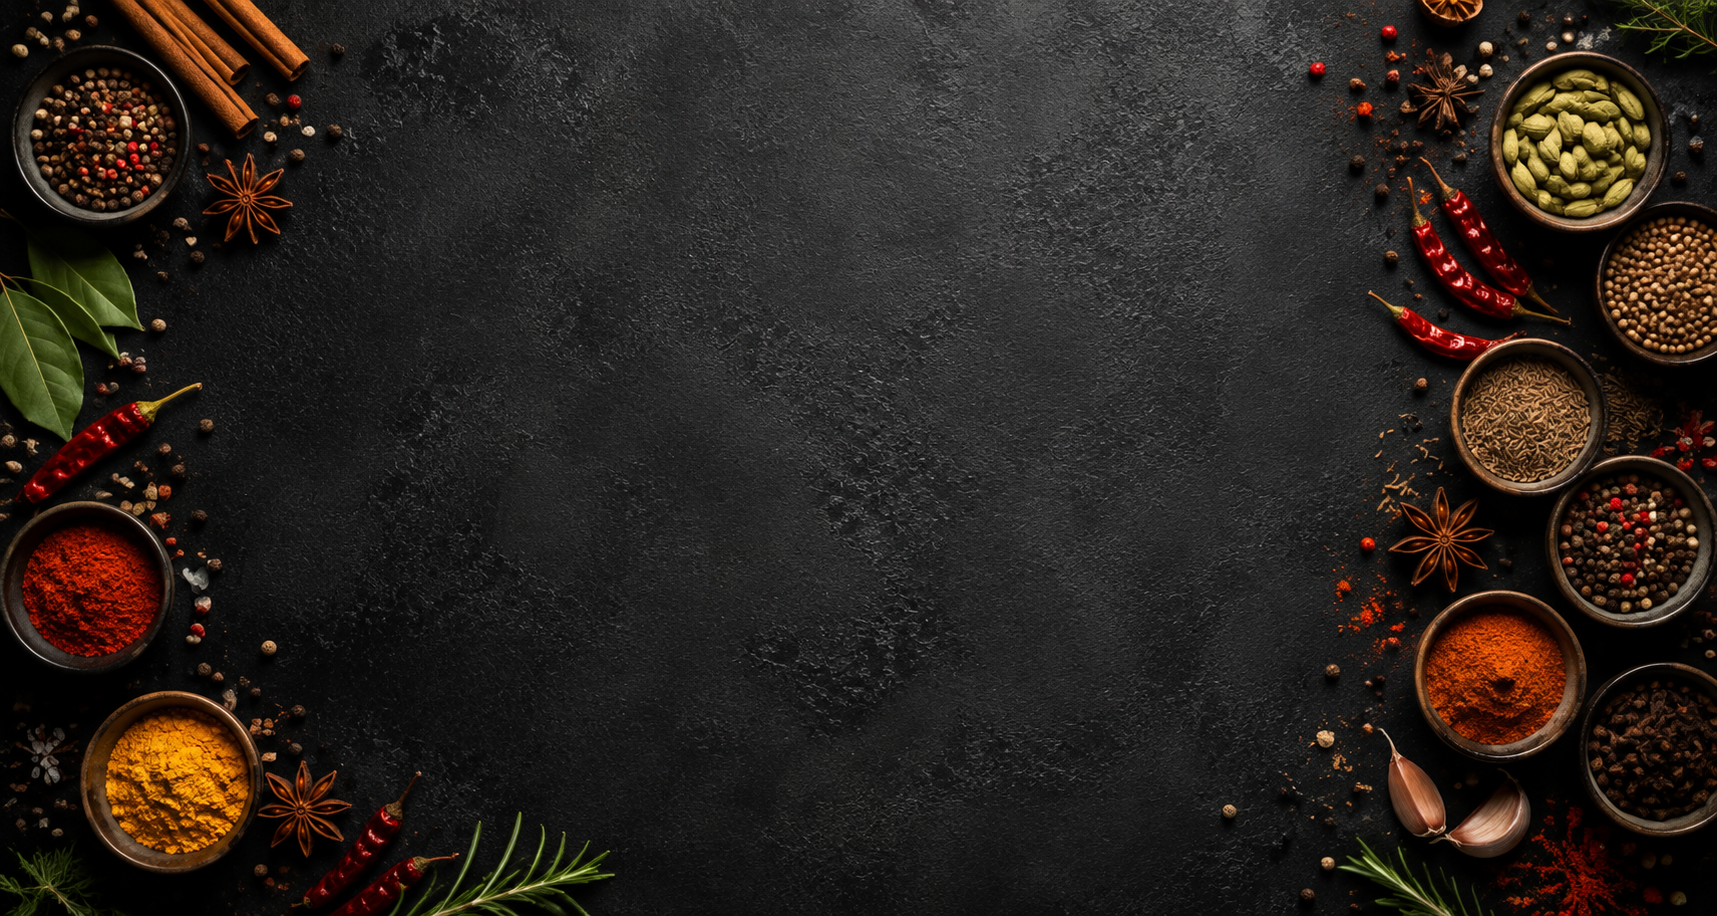
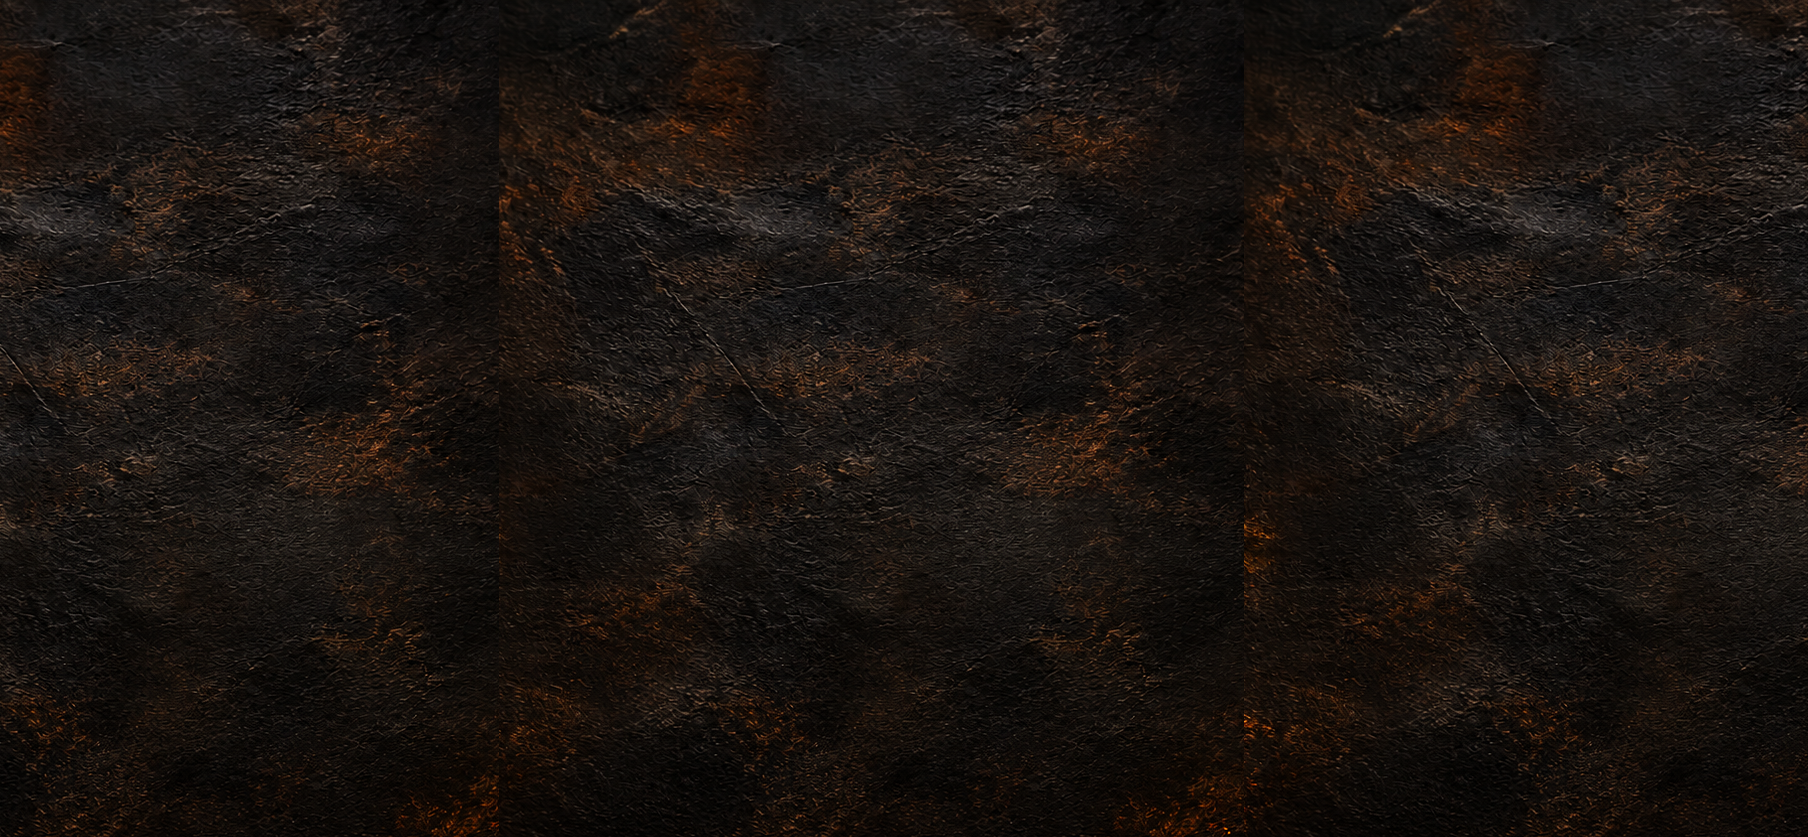
changed background image and added monthly expense

diff --git a/renderer/public/js/monthly-expenses.js b/renderer/public/js/monthly-expenses.js
@@ -1,0 +1,173 @@
+const monthlyExpenseCrudState = {
+  items: [],
+  editingId: null
+};
+
+function setMonthlyExpenseFormMode(isEdit) {
+  const submitButton = document.getElementById('monthlyExpenseSubmitButton');
+  const cancelButton = document.getElementById('cancelMonthlyExpenseEditButton');
+  if (submitButton) submitButton.textContent = isEdit ? 'Update Expense' : 'Save Expense';
+  if (cancelButton) cancelButton.hidden = !isEdit;
+}
+
+function resetMonthlyExpenseForm() {
+  const form = document.getElementById('monthlyExpenseForm');
+  if (form) form.reset();
+  monthlyExpenseCrudState.editingId = null;
+  setMonthlyExpenseFormMode(false);
+  showSaveMessage('monthlyExpenseSaveMessage', '');
+}
+
+function toMonthInputValue(value) {
+  if (!value) return '';
+  const date = new Date(value);
+  if (Number.isNaN(date.getTime())) return '';
+  return new Date(date.getTime() - date.getTimezoneOffset() * 60000).toISOString().slice(0, 7);
+}
+
+function formatExpenseMonth(value) {
+  if (!value) return '-';
+  const date = new Date(value);
+  if (Number.isNaN(date.getTime())) return '-';
+  return date.toLocaleDateString('en-IN', { month: 'long', year: 'numeric' });
+}
+
+function renderMonthlyExpenseTable(items) {
+  const body = document.getElementById('monthlyExpensesTableBody');
+  if (!body) return;
+
+  if (!items.length) {
+    body.innerHTML = '<tr><td colspan="5" class="empty-state">No monthly expenses recorded yet.</td></tr>';
+    return;
+  }
+
+  const role = getServerContext().role || 'Guest';
+  body.innerHTML = items.map(item => `
+    <tr>
+      <td>${formatExpenseMonth(item.expenseMonth)}</td>
+      <td>${item.category || '-'}</td>
+      <td>${item.expenseDetails || '-'}</td>
+      <td>${formatCurrency(item.amount)}</td>
+      ${(role === 'Admin' || role === 'Super Admin') ? `
+      <td>
+        <div class="menu-actions">
+          <button type="button" class="menu-action-btn edit" data-monthly-expense-action="edit" data-monthly-expense-id="${item.id}">Edit</button>
+          <button type="button" class="menu-action-btn delete" data-monthly-expense-action="delete" data-monthly-expense-id="${item.id}">Delete</button>
+        </div>
+      </td>
+      ` : ''}
+    </tr>
+  `).join('');
+}
+
+async function loadMonthlyExpenses() {
+  const response = await fetch(`/api/monthly-expenses/${headerRestaurantId}`);
+  const data = await response.json();
+  monthlyExpenseCrudState.items = Array.isArray(data) ? data : [];
+  renderMonthlyExpenseTable(monthlyExpenseCrudState.items);
+}
+
+function openMonthlyExpenseForEdit(id) {
+  const item = monthlyExpenseCrudState.items.find(expense => Number(expense.id) === Number(id));
+  if (!item) return;
+
+  monthlyExpenseCrudState.editingId = item.id;
+  setMonthlyExpenseFormMode(true);
+
+  const category = document.getElementById('monthlyExpenseCategory');
+  const month = document.getElementById('monthlyExpenseMonth');
+  const amount = document.getElementById('monthlyExpenseAmount');
+  const details = document.getElementById('monthlyExpenseDetails');
+
+  if (category) category.value = item.category || '';
+  if (month) month.value = toMonthInputValue(item.expenseMonth);
+  if (amount) amount.value = item.amount ?? '';
+  if (details) details.value = item.expenseDetails || '';
+}
+
+async function removeMonthlyExpense(id) {
+  if (!window.confirm('Delete this monthly expense?')) return;
+  const response = await fetch(`/api/monthly-expenses/${id}`, { method: 'DELETE' });
+  if (!response.ok) {
+    const errorBody = await response.json().catch(() => ({}));
+    throw new Error(errorBody.message || `Delete failed with status ${response.status}`);
+  }
+  await loadMonthlyExpenses();
+}
+
+function buildMonthlyExpensePayload() {
+  const monthValue = document.getElementById('monthlyExpenseMonth')?.value;
+  return {
+    category: document.getElementById('monthlyExpenseCategory')?.value?.trim(),
+    amount: Number(document.getElementById('monthlyExpenseAmount')?.value || 0),
+    expenseMonth: monthValue ? `${monthValue}-01` : null,
+    expenseDetails: document.getElementById('monthlyExpenseDetails')?.value?.trim() || null
+  };
+}
+
+function setupMonthlyExpenseCrud() {
+  const form = document.getElementById('monthlyExpenseForm');
+  const body = document.getElementById('monthlyExpensesTableBody');
+  const cancelButton = document.getElementById('cancelMonthlyExpenseEditButton');
+
+  if (cancelButton) {
+    cancelButton.addEventListener('click', resetMonthlyExpenseForm);
+  }
+
+  if (form) {
+    form.addEventListener('submit', async event => {
+      event.preventDefault();
+
+      const payload = buildMonthlyExpensePayload();
+      const isEdit = monthlyExpenseCrudState.editingId !== null;
+      const url = isEdit ? `/api/monthly-expenses/${monthlyExpenseCrudState.editingId}` : `/api/monthly-expenses/${headerRestaurantId}`;
+      const method = isEdit ? 'PUT' : 'POST';
+
+      try {
+        const response = await fetch(url, {
+          method,
+          headers: { 'Content-Type': 'application/json' },
+          body: JSON.stringify(payload)
+        });
+
+        if (!response.ok) {
+          const errorBody = await response.json().catch(() => ({}));
+          throw new Error(errorBody.message || `Save failed with status ${response.status}`);
+        }
+
+        showSaveMessage('monthlyExpenseSaveMessage', isEdit ? 'Monthly expense updated successfully.' : 'Monthly expense saved successfully.');
+        await loadMonthlyExpenses();
+        resetMonthlyExpenseForm();
+      } catch (error) {
+        showSaveMessage('monthlyExpenseSaveMessage', error.message, true);
+      }
+    });
+  }
+
+  if (body) {
+    body.addEventListener('click', async event => {
+      const button = event.target.closest('[data-monthly-expense-action]');
+      if (!button) return;
+
+      const id = button.getAttribute('data-monthly-expense-id');
+      const action = button.getAttribute('data-monthly-expense-action');
+
+      try {
+        if (action === 'edit') openMonthlyExpenseForEdit(id);
+        if (action === 'delete') await removeMonthlyExpense(id);
+      } catch (error) {
+        showSaveMessage('monthlyExpenseSaveMessage', error.message, true);
+      }
+    });
+  }
+}
+
+document.addEventListener('DOMContentLoaded', () => {
+  bindCommonChrome();
+  setupMonthlyExpenseCrud();
+  setMonthlyExpenseFormMode(false);
+  loadMonthlyExpenses().catch(() => {
+    renderMonthlyExpenseTable([]);
+    showSaveMessage('monthlyExpenseSaveMessage', 'Unable to load monthly expenses.', true);
+  });
+});

diff --git a/renderer/public/js/closed-orders.js b/renderer/public/js/closed-orders.js
@@ -37,7 +37,7 @@ function updateClosedOrdersSummary() {
 
   if (summaryEl) {
     if (filtered === 0) {
-      summaryEl.textContent = total ? `No matches for “${closedOrdersState.searchTerm}”` : 'No closed orders are available yet.';
+      summaryEl.textContent = total ? `No matches for “${closedOrdersState.searchTerm}”` : '';
     } else {
       summaryEl.textContent = `Showing ${startIndex}-${endIndex} of ${filtered} orders`;
     }
@@ -63,7 +63,7 @@ function renderClosedOrdersTable() {
     if (!searchTerm) return true;
     const isSplitBill = Number(order.isSplitBill || 0) === 1;
     const paymentMode = isSplitBill ? 'Split bill' : String(order.payment_mode || 'cash');
-    return [order.id, order.tableId, order.customer?.name, order.status, paymentMode]
+    return [order.strOrderId, order.tableId, order.customer?.name, order.status, paymentMode]
       .filter(value => value !== null && value !== undefined && value !== '')
       .some(value => String(value).toLowerCase().includes(searchTerm));
   });
@@ -77,7 +77,7 @@ function renderClosedOrdersTable() {
 
   if (!orders.length) {
     body.innerHTML = '<tr><td colspan="8" class="empty-state">No closed orders have been recorded yet.</td></tr>';
-    if (message) message.textContent = 'No closed orders available right now.';
+    // if (message) message.textContent = 'No closed orders available right now.';
     return;
   }
 
@@ -87,9 +87,7 @@ function renderClosedOrdersTable() {
     return;
   }
 
-  if (message) {
-    message.textContent = `${closedOrdersState.filteredItems.length} of ${orders.length} closed order${orders.length === 1 ? '' : 's'} loaded.`;
-  }
+  
 
   const pageItems = closedOrdersState.filteredItems.slice(
     (closedOrdersState.page - 1) * closedOrdersState.pageSize,
@@ -104,13 +102,13 @@ function renderClosedOrdersTable() {
 
     return `
       <tr>
-        <td>#${order.id || '000'}</td>
+        <td>${order.strOrderId || '000'}</td>
         <td>${order.tableId || '—'}</td>
         <td>${order.customer?.name || 'Walk-in guest'}</td>
         <td><span class="status-pill ${statusClass(order.status)}">${order.status || 'Paid'}</span></td>
         <td>${paymentMode}</td>
         <td>${formatCurrency(total)}</td>
-        <td>${closedAt}</td>
+        <td>${formatDateTime(closedAt)}</td>
         <td><button type="button" class="menu-action-btn blue" data-order-action="view-closed-order" data-order-id="${order.id}">View</button></td>
       </tr>
     `;
@@ -120,7 +118,7 @@ function renderClosedOrdersTable() {
 function renderClosedOrderDetails(order) {
   const content = document.getElementById('closedOrderDetailsContent');
   if (!content || !order) return;
-  console.log(order);
+
   const items = getClosedOrderItems(order);
   const subtotal = Number(order.item_price || 0);
   const taxPercentage = Number(order.tax_percentage || 0);
@@ -144,7 +142,7 @@ function renderClosedOrderDetails(order) {
 
   content.innerHTML = `
     <div class="four-grid">
-      <div class="details-card"><span>Order number</span><strong>#${order.id || '—'}</strong></div>
+      <div class="details-card"><span>Order number</span><strong>${order.strOrderId || '—'}</strong></div>
       <div class="details-card"><span>Status</span><strong><span class="status-pill ${statusClass(order.status)}">${order.status || 'Paid'}</span></strong></div>
       <div class="details-card"><span>Table</span><strong>${order.tableId || '—'}</strong></div>
       <div class="details-card"><span>Order type</span><strong>${order.order_type || 'Dine-in'}</strong></div>
@@ -215,7 +213,6 @@ function printClosedOrderReceipt(order) {
     showSaveMessage('closedOrderPrintMessage', 'Printer bridge is not available. Please restart the app.', true);
     return;
   }
-console.log('Printing closed order receipt for order:', order);
   const restaurant = JSON.parse(localStorage.getItem('restaurant_session') || '{}');
   const items = getClosedOrderItems(order);
   const subtotal = Number(order.item_price || 0);

diff --git a/renderer/public/js/expenses.js b/renderer/public/js/expenses.js
@@ -15,6 +15,8 @@ function resetExpenseForm() {
   if (form) form.reset();
   const expenseDate = document.getElementById('expenseDate');
   if (expenseDate) expenseDate.value = new Date().toISOString().split('T')[0];
+  const paymentMode = document.getElementById('expensePaymentMode');
+  if (paymentMode) paymentMode.value = 'cash';
   expenseCrudState.editingId = null;
   setExpenseFormMode(false);
   showSaveMessage('expenseSaveMessage', '');
@@ -34,12 +36,16 @@ function toDateInputValue(value) {
   return new Date(date.getTime() - date.getTimezoneOffset() * 60000).toISOString().slice(0, 10);
 }
 
+function formatPaymentMode(value) {
+  return value === 'upi' ? 'UPI' : 'Cash';
+}
+
 function renderExpenseTable(items) {
   const body = document.getElementById('expensesTableBody');
   if (!body) return;
 
   if (!items.length) {
-    body.innerHTML = '<tr><td colspan="4" class="empty-state">No expenses available.</td></tr>';
+    body.innerHTML = '<tr><td colspan="5" class="empty-state">No expenses available.</td></tr>';
     return;
   }
   const role = getServerContext().role || 'Guest';
@@ -47,7 +53,8 @@ function renderExpenseTable(items) {
     <tr>
       <td>${item.expenseDetails || 'Untitled expense'}</td>
       <td>${formatCurrency(item.amount)}</td>
-      <td>${formatExpenseDate(item.expenseDate)}</td>
+      <td>${formatPaymentMode(item.paymentMode)}</td>
+      <td>${formatDateTime(item.expenseDate)}</td>
         ${(role === 'Admin' || role === 'Super Admin') ? `
       <td>
         <div class="menu-actions">
@@ -77,10 +84,12 @@ function openExpenseForEdit(id) {
   const details = document.getElementById('expenseDetails');
   const amount = document.getElementById('expenseAmount');
   const expenseDate = document.getElementById('expenseDate');
+  const paymentMode = document.getElementById('expensePaymentMode');
 
   if (details) details.value = item.expenseDetails || '';
   if (amount) amount.value = item.amount ?? '';
   if (expenseDate) expenseDate.value = toDateInputValue(item.expenseDate);
+  if (paymentMode) paymentMode.value = item.paymentMode || 'cash';
 
   // toggleModal('expenseModal', 'expenseModalBackdrop', true);
 }
@@ -99,7 +108,8 @@ function buildExpensePayload() {
   return {
     expenseDetails: document.getElementById('expenseDetails')?.value?.trim(),
     amount: Number(document.getElementById('expenseAmount')?.value || 0),
-    expenseDate: document.getElementById('expenseDate')?.value || null
+    expenseDate: document.getElementById('expenseDate')?.value || null,
+    paymentMode: document.getElementById('expensePaymentMode')?.value || 'cash'
   };
 }
 

diff --git a/renderer/public/css/styles.css b/renderer/public/css/styles.css
@@ -43,7 +43,7 @@ body::before {
   background-repeat: no-repeat;
   
   /* 3. Adjust this value to change the transparency (0.0 to 1.0) */
-  opacity: 0.4; 
+  opacity: 0.8; 
   
   /* 4. Pushes the image layer behind the text content */
   z-index: -1; 
@@ -142,6 +142,9 @@ a {
 .logo-login {
   height: 100px;
   margin-top: 120px;
+      background: antiquewhite;
+    padding: 20px;
+    border-radius: 25px;
 }
 
 .logo-print {
@@ -337,6 +340,7 @@ a {
 .topbar h2 {
   margin: 0;
   font-size: 1.12rem;
+  color: #ffffff;
 }
 
 .topbar p {
@@ -1948,7 +1952,7 @@ a.button:hover {
 .page-heading {
   display: block;
   text-align: center;
-  margin: 0px auto;
+  margin: 10px auto;
   padding-bottom: 0px;
   max-width: max-content;
   font-family: 'Arial Black', Impact, sans-serif;
@@ -1956,8 +1960,8 @@ a.button:hover {
   font-weight: 900;
   text-transform: uppercase;
   letter-spacing: 2px;
-  color: #2c1e18;
-  border-bottom: 4px solid #5c4033;
+  color: #ffffff;
+  border-bottom: 4px solid #bdbdbd;
 }
 
 
@@ -2011,6 +2015,7 @@ a.button:hover {
     display: flex;
     flex-wrap: wrap;
     gap: 12px;
+    color: #fff;
 }
 
 /* Base Box Style */
@@ -2412,7 +2417,7 @@ button.secondary:hover, .ghost-button:hover { background: #f8fafc; }
   font-weight: 700;
   padding: 3px;
 }
-.add-btn:hover { background: #dceaff; }
+.add-btn:hover { background: #000; }
 
 .dish-category-title {
   grid-column: 1/-1;
